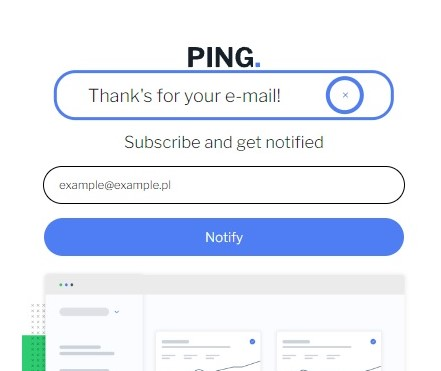
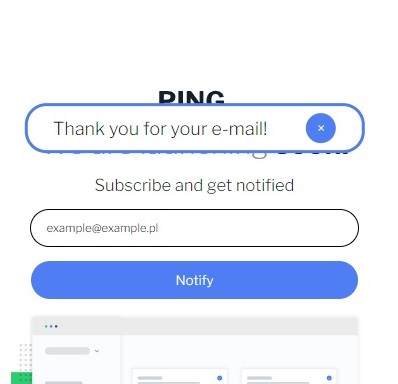
main

diff --git a/index.html b/index.html
@@ -70,7 +70,7 @@
     <div class="modal hidden">
       <button class="close-modal">&times;</button>
       <p>
-        Thank's for your e-mail!
+        Thank you for your e-mail!
       </p>
     </div>
   </div>
